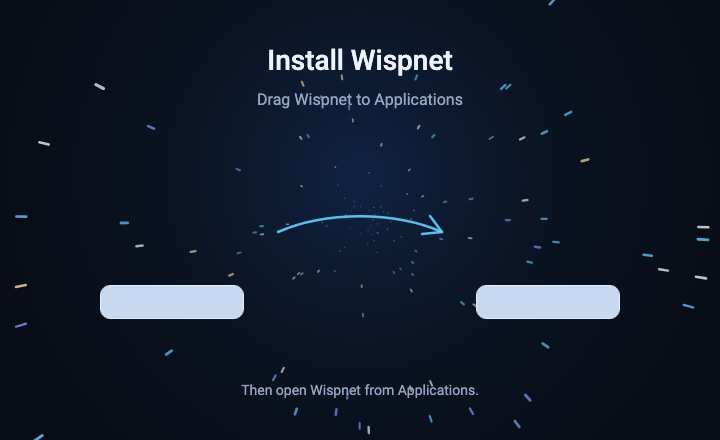
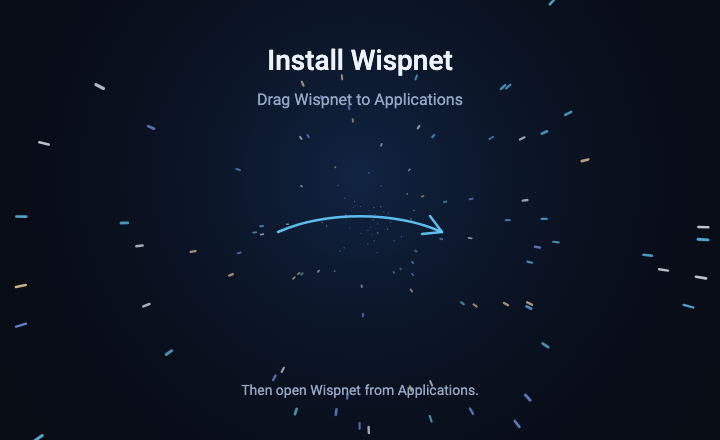
Simplify release downloads and remove installer label panels

Changed region(s): [[0.6417, 0.65, 0.8861, 0.7386], [0.1222, 0.65, 0.3361, 0.7386]]

diff --git a/apps/flutter/tool/render_dmg_background.dart b/apps/flutter/tool/render_dmg_background.dart
@@ -74,22 +74,6 @@ void main() {
                     Positioned.fill(
                       child: CustomPaint(painter: _InstallArrow()),
                     ),
-                    // Finder uses dark filenames on custom image backgrounds.
-                    // Light label plates keep its real, draggable items legible.
-                    for (final x in [100.0, 476.0])
-                      Positioned(
-                        left: x,
-                        top: 285,
-                        width: 144,
-                        height: 34,
-                        child: DecoratedBox(
-                          decoration: BoxDecoration(
-                            color: const Color(0xffc6d9f0),
-                            borderRadius: BorderRadius.circular(10),
-                            border: Border.all(color: const Color(0xffe0eeff)),
-                          ),
-                        ),
-                      ),
                     const Positioned(
                       bottom: 42,
                       left: 0,

diff --git a/scripts/prepare_homebrew.py b/scripts/prepare_homebrew.py
@@ -1,5 +1,5 @@
 #!/usr/bin/env python3
-"""Generate a Homebrew cask pinned to a completed release and both DMG hashes."""
+"""Generate a Homebrew cask pinned to a completed release and the Apple Silicon DMG hash."""
 import argparse
 import hashlib
 from pathlib import Path
@@ -12,27 +12,22 @@ def cask(directory, repository, tag):
     match = re.fullmatch(r"development-([0-9]+)-([0-9a-f]{7})", tag)
     if not match:
         raise ValueError("Expected a versioned development release tag")
-    hashes = {}
-    for arch in ("aarch64", "x86_64"):
-        name = f"wispnet-macos-{arch}.dmg"
-        digest, filename = (directory / (name + ".sha256")).read_text().split()
-        if filename != name or not re.fullmatch(r"[0-9a-f]{64}", digest):
-            raise ValueError(f"Invalid checksum sidecar: {name}")
-        if hashlib.sha256((directory / name).read_bytes()).hexdigest() != digest:
-            raise ValueError(f"Checksum mismatch: {name}")
-        hashes[arch] = digest
+    name = "wispnet-macos-aarch64.dmg"
+    digest, filename = (directory / (name + ".sha256")).read_text().split()
+    if filename != name or not re.fullmatch(r"[0-9a-f]{64}", digest):
+        raise ValueError(f"Invalid checksum sidecar: {name}")
+    if hashlib.sha256((directory / name).read_bytes()).hexdigest() != digest:
+        raise ValueError(f"Checksum mismatch: {name}")
     return f'''cask "wispnet" do
-  arch arm: "aarch64", intel: "x86_64"
-
   version "{match[1]}.{match[2]}"
-  sha256 arm:   "{hashes['aarch64']}",
-         intel: "{hashes['x86_64']}"
+  sha256 "{digest}"
 
-  url "https://github.com/{repository}/releases/download/{tag}/wispnet-macos-#{{arch}}.dmg"
+  url "https://github.com/{repository}/releases/download/{tag}/wispnet-macos-aarch64.dmg"
   name "Wispnet"
   desc "Share and access services across your devices"
   homepage "https://github.com/{repository}"
 
+  depends_on arch: :arm64
   depends_on macos: :ventura
 
   app "Wispnet.app"

diff --git a/scripts/test_homebrew.py b/scripts/test_homebrew.py
@@ -1,4 +1,4 @@
-"""Casks must pin both architectures to immutable release assets."""
+"""Casks must pin Apple Silicon to immutable release assets."""
 import hashlib
 from pathlib import Path
 import tempfile
@@ -8,10 +8,10 @@ from prepare_homebrew import cask
 
 
 class HomebrewCaskTests(unittest.TestCase):
-    def test_pins_both_dmg_hashes_and_preserves_user_authority(self):
+    def test_pins_apple_silicon_dmg_hash_and_preserves_user_authority(self):
         with tempfile.TemporaryDirectory() as temporary:
             root = Path(temporary)
-            for arch in ("aarch64", "x86_64"):
+            for arch in ("aarch64",):
                 name = f"wispnet-macos-{arch}.dmg"
                 payload = arch.encode()
                 (root / name).write_bytes(payload)
@@ -19,8 +19,10 @@ class HomebrewCaskTests(unittest.TestCase):
             content = cask(root, "biplabs/wispnet_client", "development-123-abcdef0")
             self.assertIn('version "123.abcdef0"', content)
             self.assertIn('/download/development-123-abcdef0/', content)
-            for arch in ("aarch64", "x86_64"):
+            for arch in ("aarch64",):
                 self.assertIn(hashlib.sha256(arch.encode()).hexdigest(), content)
+            self.assertIn("depends_on arch: :arm64", content)
+            self.assertNotIn("x86_64", content)
             self.assertNotIn("no_check", content)
             self.assertNotIn("python", content)
             self.assertNotIn("~/.config", content)

diff --git a/Casks/wispnet.rb b/Casks/wispnet.rb
@@ -1,15 +1,13 @@
 cask "wispnet" do
-  arch arm: "aarch64", intel: "x86_64"
-
   version "47.937f088"
[3 lines of base64/hex data omitted]
 
-  url "https://github.com/biplabs/wispnet_client/releases/download/development-47-937f088/wispnet-macos-#{arch}.dmg"
+  url "https://github.com/biplabs/wispnet_client/releases/download/development-47-937f088/wispnet-macos-aarch64.dmg"
   name "Wispnet"
   desc "Share and access services across your devices"
   homepage "https://github.com/biplabs/wispnet_client"
 
+  depends_on arch: :arm64
   depends_on macos: :ventura
 
   app "Wispnet.app"

diff --git a/packaging/macos/dmg_settings.py b/packaging/macos/dmg_settings.py
@@ -13,7 +13,9 @@ show_pathbar = False
 show_sidebar = False
 arrange_by = None
 icon_size = 96
-text_size = 14
+# Finder rejects zero/tiny text sizes and then discards the icon-view styling.
+# Keep only its small native filenames; the background has no label panels.
+text_size = 10
 label_pos = "bottom"
 icon_locations = {"Wispnet.app": (172, 230), "Applications": (548, 230)}
 # Do not set FinderInfo on the signed app: codesign --strict rejects it.

diff --git a/docs/macos-desktop.md b/docs/macos-desktop.md
@@ -8,8 +8,7 @@ communicate through private pipes and the owner-only node socket.
 
 ## Install the macOS app
 
-Download `wispnet-macos-aarch64.dmg` for Apple Silicon or
-`wispnet-macos-x86_64.dmg` for Intel from the
+Download `wispnet-macos-aarch64.dmg` for Apple Silicon from the
 [latest release](https://github.com/biplabs/wispnet_client/releases/latest).
 Open the disk image, drag **Wispnet** to **Applications**, eject the image,
 and open Wispnet from Applications. macOS 13+ is required.
@@ -25,7 +24,7 @@ background node. Applications in `~/Applications` are also supported.
 
 ### Homebrew
 
-The release workflow maintains an architecture-specific cask in this repository:
+The release workflow maintains an Apple Silicon cask in this repository:
 
 ```sh
 brew tap biplabs/wispnet https://github.com/biplabs/wispnet_client
@@ -38,7 +37,7 @@ If Homebrew asks you to trust this third-party cask, run
 
 Upgrade with `brew update` followed by
 `brew upgrade --cask biplabs/wispnet/wispnet`, then open Wispnet again.
-Each cask pins the release URL and the SHA-256 for both architectures. Homebrew
+The cask pins the release URL and SHA-256 for Apple Silicon. Homebrew
 also exposes `wispnet` in its bin directory. Uninstalling stops the login agents
 and removes program files; identity, configuration and user data are retained.
 The cask becomes available after the first successful DMG release.
@@ -50,8 +49,8 @@ test and packaging tool only.
 
 ### Advanced archive installation
 
-The release also includes `.tar.gz` bundles and `.sha256` sidecars for scripted
-installation. After verifying and extracting the archive, run
+For scripted installation, build a `.tar.gz` bundle locally with the packaging
+tool. Releases publish only the Apple Silicon DMG, with its checksum in the notes. After verifying and extracting the archive, run
 `scripts/install_macos.sh --init` for a new host or omit `--init` for an upgrade.
 The native installer verifies the manifest before changing installed files.
 

diff --git a/docs/linux-distribution.md b/docs/linux-distribution.md
@@ -42,16 +42,16 @@ explicit prebuilt Flutter executable together with its sibling `lib`/`data` and 
 Every push to `main` automatically runs **Actions → Desktop builds**. You can also
 use **Run workflow** on `main` to rebuild manually. The workflow builds the Rust
 node and Flutter desktop for Linux x86_64 on Ubuntu 24.04, plus native macOS
-Apple Silicon and Intel bundles, with Rust 1.95.0 and Flutter 3.47.7. It checks
+an Apple Silicon DMG, with Rust 1.95.0 and Flutter 3.47.7. It checks
 archive checksums, clean source provenance, platform, desktop and license metadata.
 Project tests remain local through the required pre-push hook.
 
-After all three builds succeed, the workflow updates the rolling
+After both builds succeed, the workflow publishes a new
 [Latest development build](https://github.com/biplabs/wispnet_client/releases/latest)
-with the archives and their `.sha256` sidecars. Download
-`wispnet-linux-x86_64.tar.gz` and its checksum directly from that release, then
-follow the verification and installation steps above. The release notes identify
-the source commit. This is a development snapshot, not a stable v1 release.
+with just two product downloads: the Linux archive and Apple Silicon DMG.
+Download `wispnet-linux-x86_64.tar.gz`, run
+`sha256sum wispnet-linux-x86_64.tar.gz`, and compare the result with the SHA-256
+in the release notes before extracting it. The notes also identify the source commit. This is a development snapshot, not a stable v1 release.
 Failed builds leave the previous release in place. A build superseded by a newer
 `main` commit retains its Actions artifacts without replacing the release.
 

diff --git a/README.md b/README.md
@@ -40,7 +40,7 @@ See [the split guide](docs/project-split.md) for ownership and validation.
 [Linux desktop/tray setup](docs/linux-desktop.md) · [macOS app](docs/macos-desktop.md). Installed service names, state paths and Android package ID stay unchanged by the source reorganization.
 
 Download the [development release](https://github.com/biplabs/wispnet_client/releases/latest)
-for Linux x86_64 or macOS (Apple Silicon and Intel). On macOS, open the DMG,
+for Linux x86_64 or macOS (Apple Silicon). On macOS, open the DMG,
 drag Wispnet to Applications and open it. Downloads include the node/CLI,
 Flutter desktop and installer. GitHub Actions publishes a new development release after
 successful builds of `main`; see the [Linux bundle guide](docs/linux-distribution.md)
